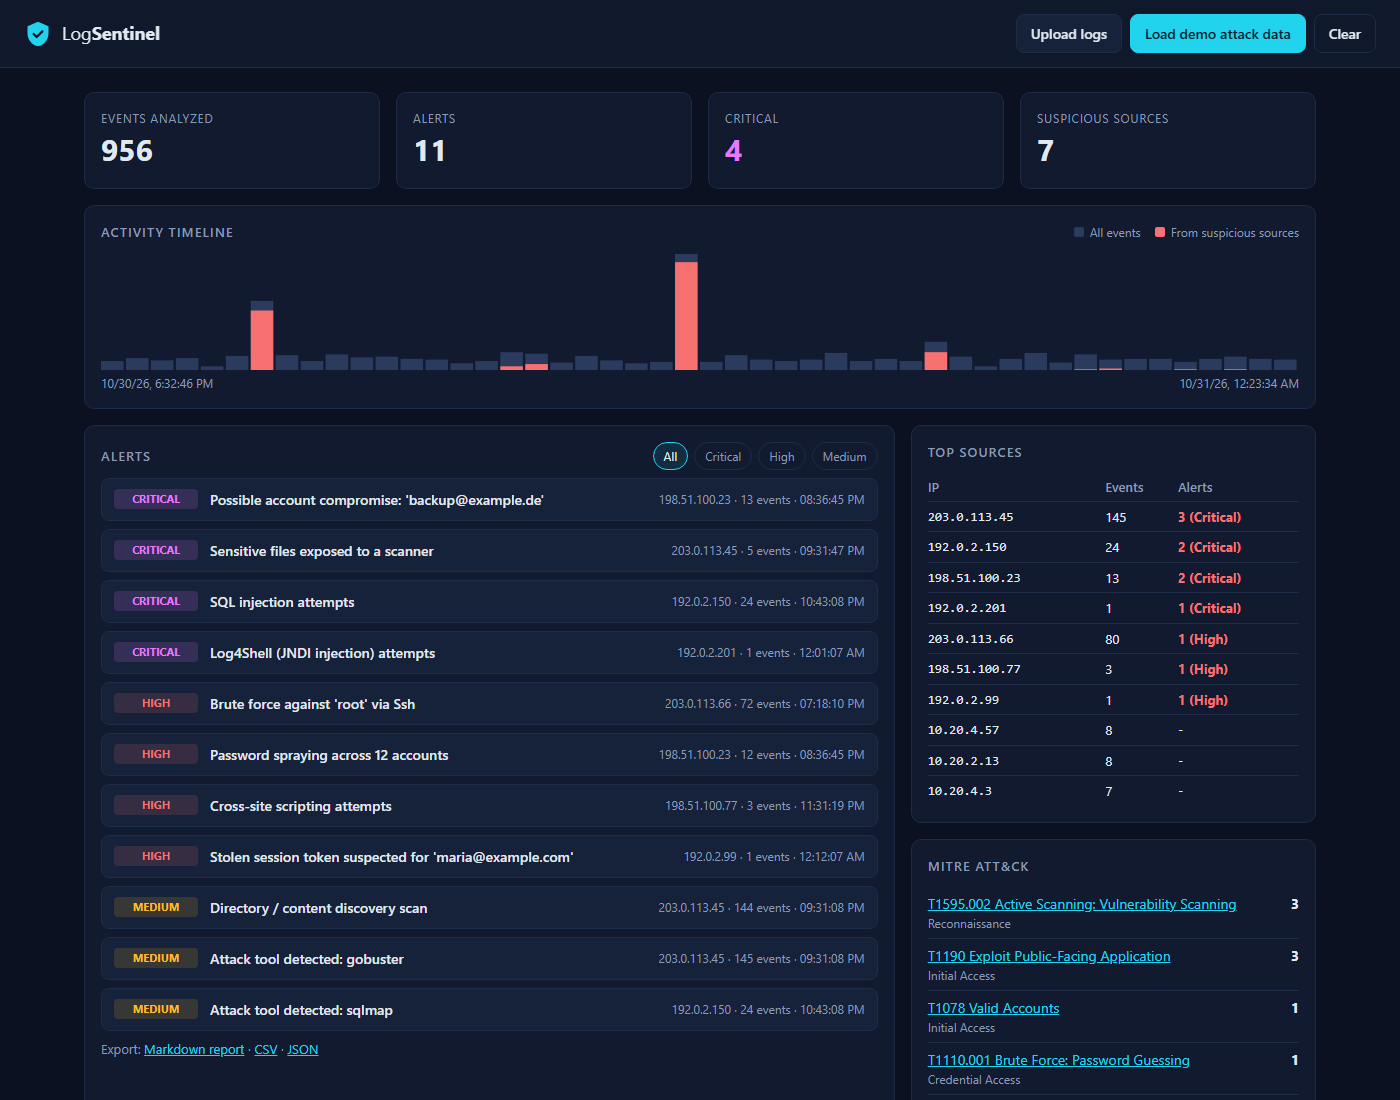
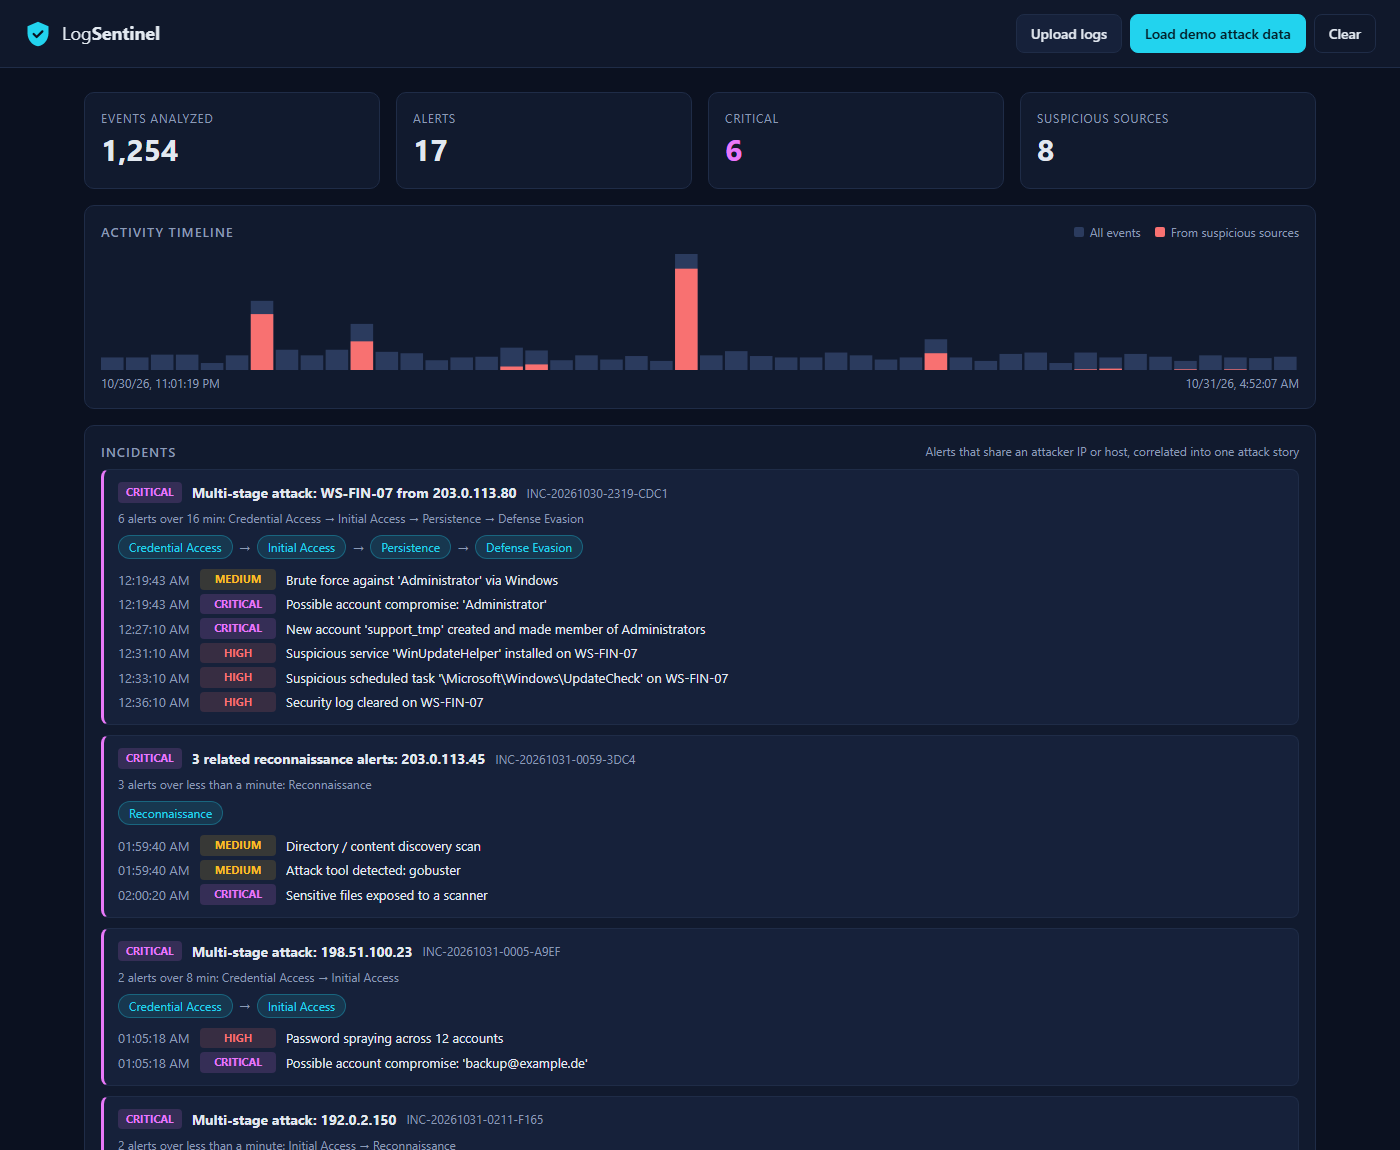
LogSentinel: Windows Security events, 4 new rules, incident correlation
- Parser for Winlogbeat JSON and native event XML (4624/4625/4740/4720/
  4728/4732/4756/7045/4698/1102); auth rules now cover RDP logons
- Rules: log cleared, privileged group change (critical when the account
  was just created), suspicious service, suspicious scheduled task
- Alerts sharing an IP or host are correlated into incidents (union-find)
  with tactics in the order they occurred; shown in CLI, report, dashboard
- Demo data: full Windows intrusion plus benign admin activity; 87 tests

diff --git a/index.html b/index.html
@@ -59,7 +59,7 @@
         <a class="btn ghost" href="https://github.com/karicamar" rel="noopener noreferrer">GitHub ↗</a>
       </div>
       <ul class="facts">
-        <li><strong>140+</strong><span lang="en">automated tests across my projects</span><span lang="de">automatisierte Tests in meinen Projekten</span></li>
+        <li><strong>200+</strong><span lang="en">automated tests across my projects</span><span lang="de">automatisierte Tests in meinen Projekten</span></li>
         <li><strong>B2</strong><span lang="en">German, improving daily in Frankfurt</span><span lang="de">Deutsch, täglich besser in Frankfurt</span></li>
         <li><strong>10</strong><span lang="en">security learning paths completed (SOC, pentesting)</span><span lang="de">abgeschlossene Security-Lernpfade (SOC, Pentesting)</span></li>
       </ul>
@@ -114,12 +114,13 @@
           <p class="project-kicker">.NET 10 · Minimal API · Vanilla JS · MITRE ATT&amp;CK</p>
           <h3>LogSentinel</h3>
           <p>
-            <span lang="en">A lightweight SIEM. It reads SSH, nginx/Apache and application logs and detects brute force, password spraying,
-              SQL injection, scanners and stolen session tokens. Every alert is mapped to MITRE ATT&amp;CK and comes with evidence.</span>
-            <span lang="de">Ein schlankes SIEM: liest SSH-, nginx/Apache- und Anwendungslogs und erkennt Brute Force, Password Spraying,
-              SQL-Injection, Scanner und gestohlene Session-Tokens. Jeder Alarm ist MITRE ATT&amp;CK zugeordnet und mit Belegen versehen.</span>
+            <span lang="en">A lightweight SIEM. It reads Windows Security events, SSH, nginx/Apache and application logs and detects brute force,
+              password spraying, SQL injection, backdoor admin accounts, malicious services and cleared logs. 12 rules, all mapped to MITRE ATT&amp;CK.</span>
+            <span lang="de">Ein schlankes SIEM: liest Windows-Sicherheitsereignisse, SSH-, nginx/Apache- und Anwendungslogs und erkennt Brute Force,
+              Password Spraying, SQL-Injection, Backdoor-Admin-Konten, schädliche Dienste und gelöschte Logs. 12 Regeln nach MITRE ATT&amp;CK.</span>
           </p>
           <ul class="highlights">
+            <li><span lang="en"><strong>Incident correlation</strong>: six alerts become one story: “RDP brute force → login → backdoor admin → log cleared”</span><span lang="de"><strong>Incident-Korrelation</strong>: aus sechs Alarmen wird ein Vorfall: „RDP-Brute-Force → Login → Backdoor-Admin → Log gelöscht“</span></li>
             <li><span lang="en">Escalates to <em>Critical</em> when an attack seems to have worked (login after brute force, SQLi answered with 200)</span><span lang="de">Eskaliert auf <em>Critical</em>, wenn ein Angriff wohl erfolgreich war (Login nach Brute Force, SQLi mit HTTP 200)</span></li>
             <li><span lang="en">Dashboard is hardened against stored XSS from log content (strict CSP, no innerHTML)</span><span lang="de">Dashboard gehärtet gegen Stored XSS aus Logdaten (strikte CSP, kein innerHTML)</span></li>
             <li><span lang="en">CLI with exit codes for cron/CI, Markdown incident reports</span><span lang="de">CLI mit Exit-Codes für Cron/CI, Incident-Reports in Markdown</span></li>
